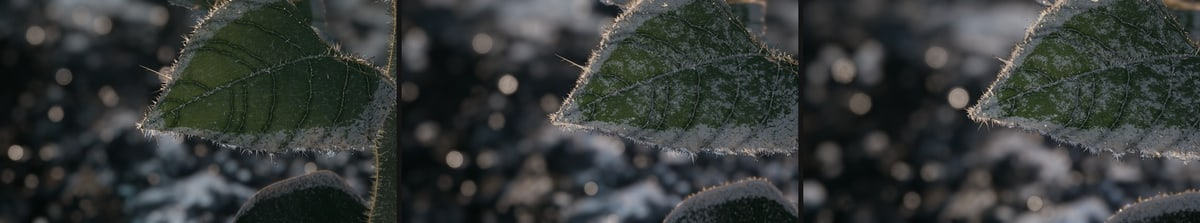
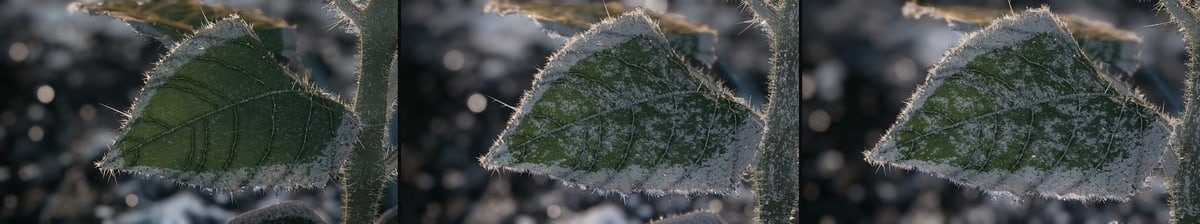
Status 22

diff --git a/kit/v2/PROGRESS.md b/kit/v2/PROGRESS.md
@@ -13,12 +13,13 @@ The Builder's memory for version 2. Read this first in every task, then `kit/v2/
 - Extensions: 0
 - App URL: not published (version 1 stays at https://sunflower-film.pplx.app until Brandon approves a swap)
 - Last push: `e5958d2` to `v2`, 2026-11-23 03:57 UTC
-- Last status: 21 · 2026-11-23 10:02 UTC · Phase 3
+- Last status: 22 · 2026-11-23 10:20 UTC · Phase 3
 
 ## Latest pictures
 
 Newest first. Each line names the pictures of one status in `out/stills/status/`, with the time and the caption, so this page shows where the film is.
 
+- 2026-11-23 10:20 UTC · status 22 · Phase 3 · `status-1.jpg`: First close shot, frames 952, 1003 and 1054: the leaf sits whole in the picture and the frost builds on it; `status-2.jpg`: Second close shot, frame 1106, against the sun: a cooler, deeper sky and a hot sun. The comb of hairs and the stout stem end are next; `status-3.jpg`: Third close shot, frame 1208: the thaw. The ground still carries its frost here, the ground owner's cure is in hand
 - 2026-11-23 10:02 UTC · status 21 · Phase 3 · `status-1.jpg`: First close shot, frames 952, 1003 and 1054: the frost builds on the blade. The leaf still sits too high and drifts out, the framing is next; `status-2.jpg`: Frames 1054 and 1208 on the left, their reference pictures on the right: the gap that is left to close; `status-3.jpg`: Second close shot, frame 1106, against the sun. The pale dome on the stalk and the weak sun are with their owners; `status-4.jpg`: The bud opening, bars 57 to 61, from the head owner's bench (its third pass is on mine now)
 - 2026-11-23 09:32 UTC · status 20 · Phase 3 · `status-1.jpg`: First frost close shot at film size, frames 952, 1003 and 1054. Above: before. Below: now, sharp over the whole leaf; `status-2.jpg`: The same at 100 percent, frame 1054. Above: before. Below: now; `status-3.jpg`: Frame 1054 beside its reference picture; `status-4.jpg`: Bloom at bar 61 beside its reference picture, before the new work on rays and disc
 - 2026-11-23 09:04 UTC · status 19 · Phase 3 · `status-1.jpg`: Bloom, pull back and end with the new stop and deck (3112, 3277, 3359, 3442, 3524, 3729) and two nights (2173 before the star change, 835); `status-2.jpg`: Bloom close up: the head faces the lens at f/2.8; `status-3.jpg`: Frost close shots as they stand (952, 1106, 1208, 1234, 1250, 1262); `status-4.jpg`: Close shot 1, draft tier left and review tier right (1003 above, 1106 below)
@@ -30,7 +31,6 @@ Newest first. Each line names the pictures of one status in `out/stills/status/`
 - 2026-11-23 05:33 UTC · status 13 · Phase 3 · `status-1.jpg`: The break at the boom of bar 41, frames 2081 to 2090, with the lens merged (draft tier, drawn here); `status-2.jpg`: The end of a quick night, frames 2174 to 2184: the moon fades once and does not come back (draft tier, drawn here); `status-3.jpg`: The end of the film at bars 67, 69, 71 and 73 with the new far crop (draft tier, drawn here); `status-4.jpg`: The held tear after the storm at bars 42.19 and 42.33, and two days at bars 29.7 and 43.75 (draft tier, drawn here)
 - 2026-11-23 05:06 UTC · status 12 · Phase 3 · `status-1.jpg`: The merged film at twelve moments (draft tier, drawn here); `status-2.jpg`: The break at the boom of bar 41, frames 2080 to 2090: the tear opens on frame 2083 (draft tier, drawn here); `status-3.jpg`: The night after the storm, frames 2150 to 2196, every second frame (draft tier, drawn here); `status-4.jpg`: Frost hold, bar 21, at the review tier (drawn by the frost builder)
 - 2026-11-23 04:40 UTC · status 11 · Phase 3 · `status-1.jpg`: Frost hold, bar 21: reference left, film right (draft tier); `status-2.jpg`: Full day, bar 29.7, with the lower noon sun: reference left, film right (draft tier); `status-3.jpg`: Night, bar 46.82: reference left, film right (draft tier); `status-4.jpg`: The field, bar 69: reference left, film right (draft tier)
-- 2026-11-23 04:09 UTC · status 10 · Phase 3 · `status-1.jpg`: With the newest sky (draft): the blue hour of the first frame, sunrise at bar 1.5, low sun at bar 9.2, the night of bar 46.82 with the new star map; `status-2.jpg`: The break at the boom of bar 41, frames 2081 to 2089 (draft, drawn before the newest sky): the last frame of the hold is still, then the tear opens over five frames. The hard white dot on the third frame is gone in the newest sky; `status-3.jpg`: Frost hold at bar 21, storm at 35, the field at bars 69 and 73 with the new far ridge (draft, before the newest sky). The frost is still flat and the end still magenta: both are in work; `status-4.jpg`: Low sun beside the references, drawn by the sky's builder; my own frames at bars 1.5 and 9.2 agree
 
 ## Clock
 
@@ -41,11 +41,11 @@ Copied from the output of `npm run clock` at every status. Working time only.
 | 0 | 1.50 h | 0.62 h |
 | 1 | 0.50 h | 0.77 h |
 | 2 | 3.50 h | 3.88 h |
-| 3 | 9.00 h | 6.78 h |
+| 3 | 9.00 h | 7.08 h |
 | 4 | 8.50 h | 0.00 h |
 | 5 | 3.00 h | 0.00 h |
 | 6 | 4.00 h | 0.00 h |
-| Whole build | 30.00 h | 12.04 h |
+| Whole build | 30.00 h | 12.34 h |
 
 Continuations and extensions are listed under this table with their own hours.
 
@@ -285,4 +285,6 @@ None yet.
   Pictures: First frost close shot at film size, frames 952, 1003 and 1054. Above: before. Below: now, sharp over the whole leaf; The same at 100 percent, frame 1054. Above: before. Below: now; Frame 1054 beside its reference picture; Bloom at bar 61 beside its reference picture, before the new work on rays and disc.
 - Status 21, 2026-11-23 10:02 UTC, Phase 3. Frost now lies in white banks on the blade in the first close shot, with green left between them. The second and third close shots are stopped down to f/22 and hold a tested range in focus. The stem no longer stutters as it grows: frames where the tip turns more than a quarter of a millimetre fell from 33 to 1 (measured). Merged and proved: plant, ground, field, checks, hairs. Merged and on the bench now: frost, the moon repair, the eased dawn, the head's third pass. Next: A grade of its own for each close shot (deeper, cooler sky behind the lit fringe), a new framing that keeps the first leaf in the middle of the picture, a hot core for the sun through the mist, grain in the frost banks, then the blockout of the whole film. Time used: 12.0 h of 30 h.
   Pictures: First close shot, frames 952, 1003 and 1054: the frost builds on the blade. The leaf still sits too high and drifts out, the framing is next; Frames 1054 and 1208 on the left, their reference pictures on the right: the gap that is left to close; Second close shot, frame 1106, against the sun. The pale dome on the stalk and the weak sun are with their owners; The bud opening, bars 57 to 61, from the head owner's bench (its third pass is on mine now).
+- Status 22, 2026-11-23 10:20 UTC, Phase 3. Each of the three frost close shots now has a grade of its own, and the first is reframed so the whole leaf sits in the middle of the picture. In the second the sky falls to a steel blue behind the lit fringe and the sun has a hot core through the mist. In the third the ground is darker behind the lit blade. The drop in the third shot now falls at real speed. Measured: 32 test files, 186 tests pass, among them a new one that proves the grades touch no frame outside the close shots. Next: Break up the comb of hairs on the stalk and give the stem a slender end, grain in the frost banks, keep the green between the banks on the first leaf, take the frost off the ground as it thaws, then the blockout of the whole film. Time used: 12.3 h of 30 h.
+  Pictures: First close shot, frames 952, 1003 and 1054: the leaf sits whole in the picture and the frost builds on it; Second close shot, frame 1106, against the sun: a cooler, deeper sky and a hot sun. The comb of hairs and the stout stem end are next; Third close shot, frame 1208: the thaw. The ground still carries its frost here, the ground owner's cure is in hand.
 

diff --git a/out/stills/status/STATUS.md b/out/stills/status/STATUS.md
@@ -1,12 +1,11 @@
-# Status 21
+# Status 22
 
-2026-11-23 10:02 UTC
+2026-11-23 10:20 UTC
 
-- Status 21 · Phase 3. Frost now lies in white banks on the blade in the first close shot, with green left between them. The second and third close shots are stopped down to f/22 and hold a tested range in focus. The stem no longer stutters as it grows: frames where the tip turns more than a quarter of a millimetre fell from 33 to 1 (measured). Merged and proved: plant, ground, field, checks, hairs. Merged and on the bench now: frost, the moon repair, the eased dawn, the head's third pass.
-- Next: A grade of its own for each close shot (deeper, cooler sky behind the lit fringe), a new framing that keeps the first leaf in the middle of the picture, a hot core for the sun through the mist, grain in the frost banks, then the blockout of the whole film. Time used: 12.0 h of 30 h.
+- Status 22 · Phase 3. Each of the three frost close shots now has a grade of its own, and the first is reframed so the whole leaf sits in the middle of the picture. In the second the sky falls to a steel blue behind the lit fringe and the sun has a hot core through the mist. In the third the ground is darker behind the lit blade. The drop in the third shot now falls at real speed. Measured: 32 test files, 186 tests pass, among them a new one that proves the grades touch no frame outside the close shots.
+- Next: Break up the comb of hairs on the stalk and give the stem a slender end, grain in the frost banks, keep the green between the banks on the first leaf, take the frost off the ground as it thaws, then the blockout of the whole film. Time used: 12.3 h of 30 h.
 - Review page: not published yet.
 
-- `status-1.jpg`: First close shot, frames 952, 1003 and 1054: the frost builds on the blade. The leaf still sits too high and drifts out, the framing is next
-- `status-2.jpg`: Frames 1054 and 1208 on the left, their reference pictures on the right: the gap that is left to close
-- `status-3.jpg`: Second close shot, frame 1106, against the sun. The pale dome on the stalk and the weak sun are with their owners
-- `status-4.jpg`: The bud opening, bars 57 to 61, from the head owner's bench (its third pass is on mine now)
+- `status-1.jpg`: First close shot, frames 952, 1003 and 1054: the leaf sits whole in the picture and the frost builds on it
+- `status-2.jpg`: Second close shot, frame 1106, against the sun: a cooler, deeper sky and a hot sun. The comb of hairs and the stout stem end are next
+- `status-3.jpg`: Third close shot, frame 1208: the thaw. The ground still carries its frost here, the ground owner's cure is in hand
